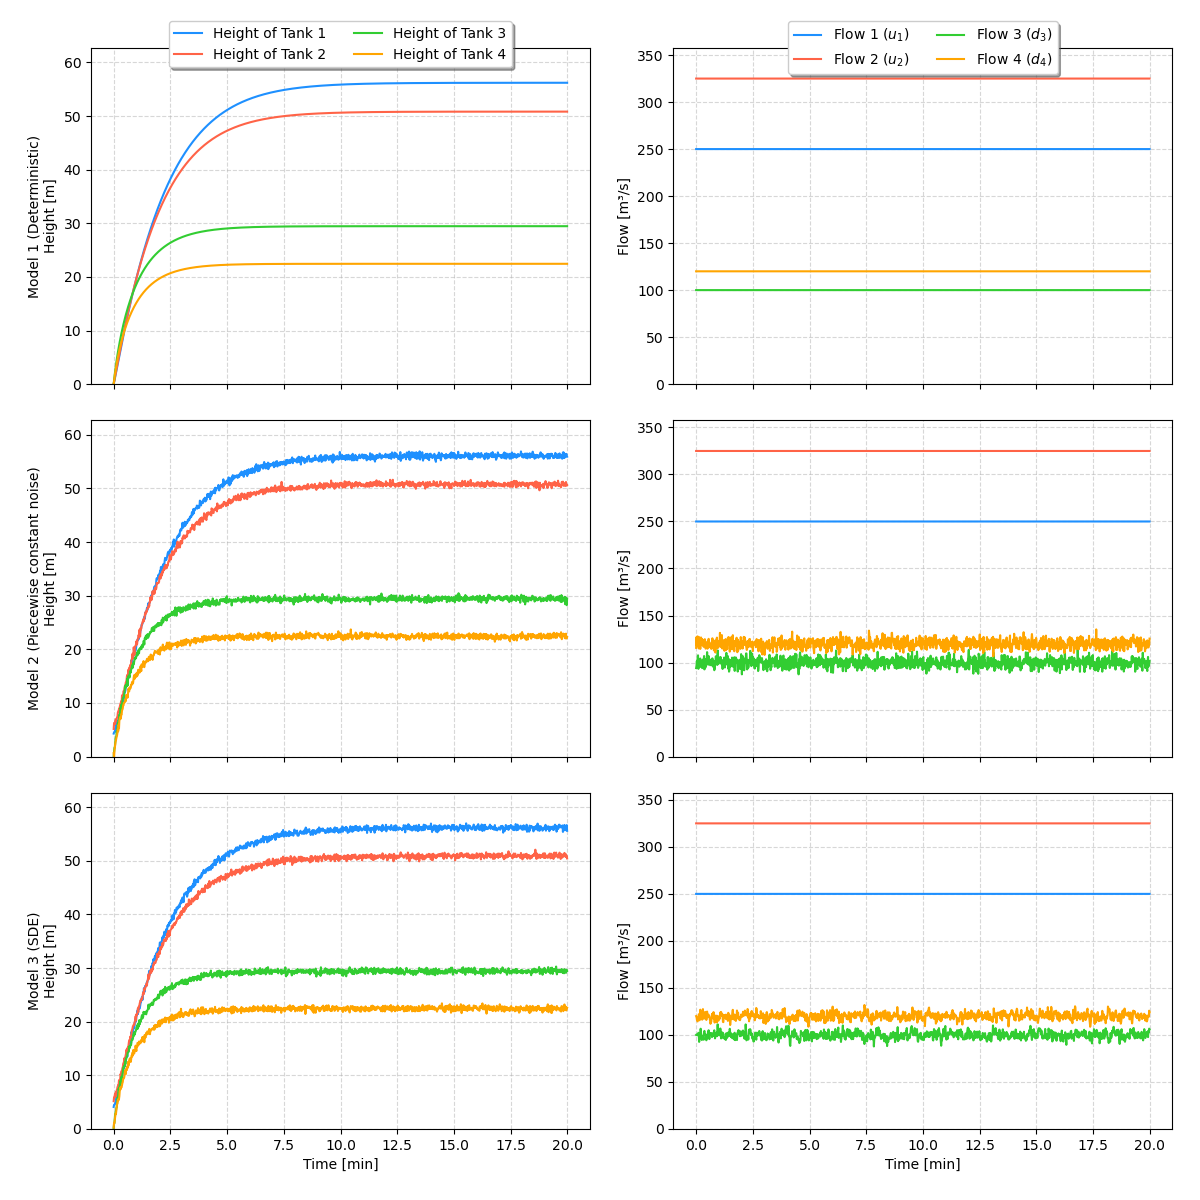
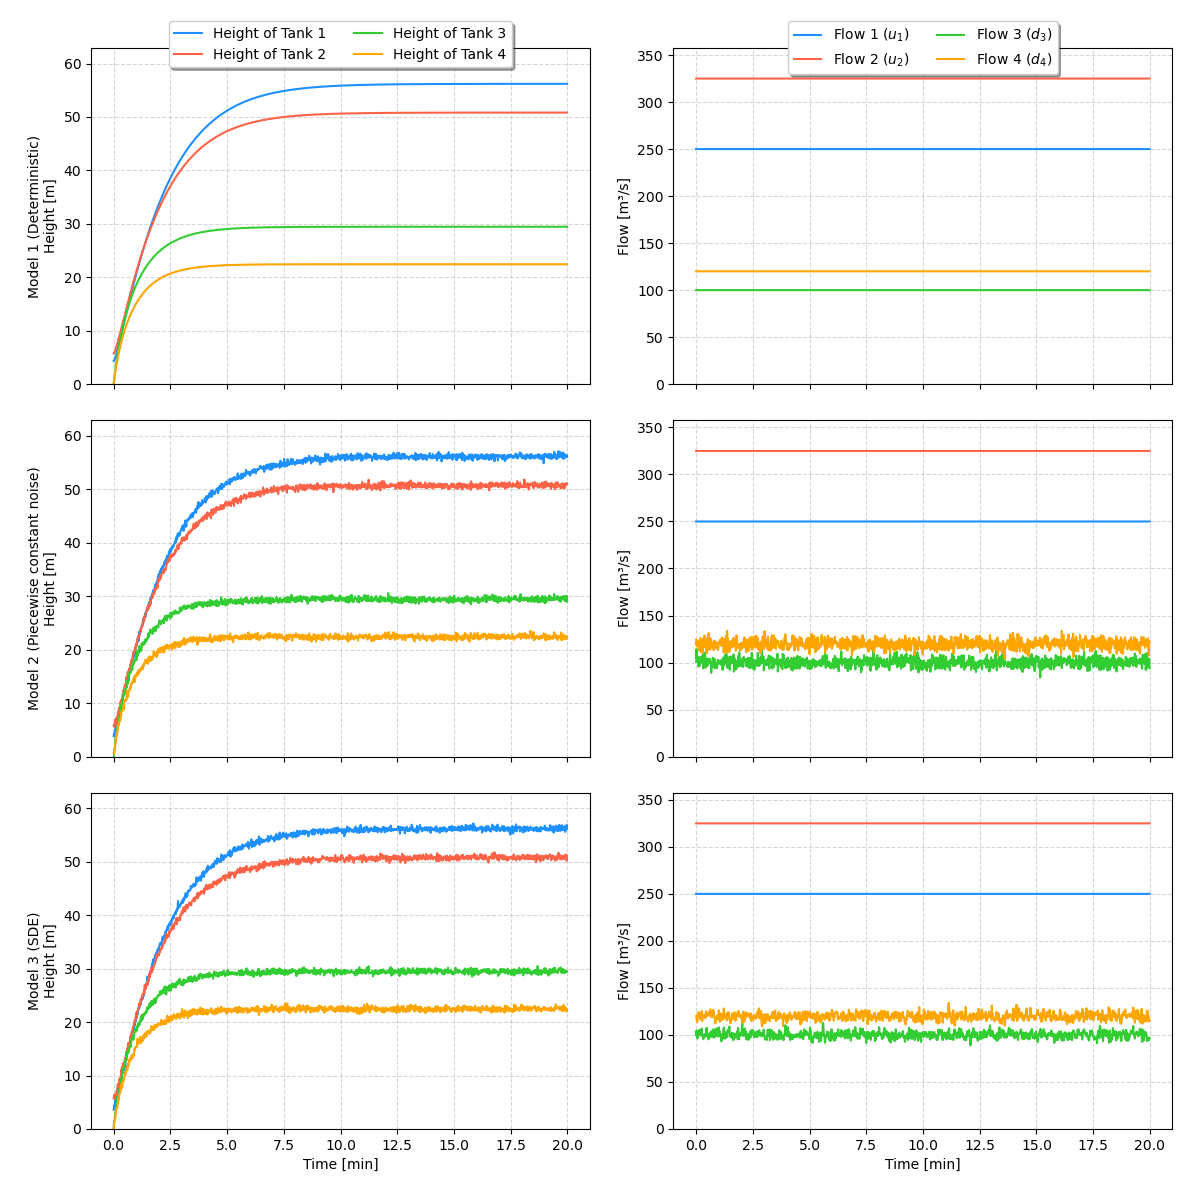
PID

diff --git a/Problem_3.py b/Problem_3.py
@@ -37,12 +37,12 @@ xs = Model.GetSteadyState(x0, u, d)
 print("Steady state (m):", xs)
 print("Steady state (h):", xs/(rho*np.array([A1,A2,A3,A4])))
 
-state_0 = np.concatenate([x0, d])
+state_0 = np.concatenate([xs, d])
 
 
 setpoint = goal
 
-controller_p = pid.PIDController(1, 0, 0, setpoint, delta_t, umin, umax)
+controller_p = pid.PIDController(5, 0, 0, setpoint, delta_t, umin, umax)
 
 t, x, u, d, h = Model.ClosedLoop((t0, tf), state_0, controller_p)
 
@@ -59,13 +59,13 @@ for i in range(4):
 
 axes[0, 0].set_ylim(0, np.max(h)*1.1)
 axes[0, 1].set_ylim(0, np.max(u)*1.1)
-axes[0, 0].set_ylabel('K_p = 1\nHeight [m]')
+axes[0, 0].set_ylabel('K_p = 5\nHeight [m]')
 axes[0, 1].set_ylabel('Flow [m³/s]')
 axes[0, 0].grid(True, linestyle='--', alpha=0.5)
 axes[0, 1].grid(True, linestyle='--', alpha=0.5)
 
 
-controller_pi = pid.PIDController(5, 0, 0, setpoint, delta_t, umin, umax)
+controller_pi = pid.PIDController(50, 0, 0, setpoint, delta_t, umin, umax)
 
 t, x, u, d, h = Model.ClosedLoop((t0, tf), state_0, controller_pi)
 
@@ -78,12 +78,12 @@ for i in range(4):
 
 axes[1, 0].set_ylim(0, np.max(h)*1.1)
 axes[1, 1].set_ylim(0, np.max(u)*1.1)
-axes[1, 0].set_ylabel('PI Controller\nHeight [m]')
+axes[1, 0].set_ylabel('K_p = 50\nHeight [m]')
 axes[1, 1].set_ylabel('Flow [m³/s]')
 axes[1, 0].grid(True, linestyle='--', alpha=0.5)
 axes[1, 1].grid(True, linestyle='--', alpha=0.5)
 
-controller_pid = pid.PIDController(5, 0, 0, setpoint, delta_t, umin, umax)
+controller_pid = pid.PIDController(500, 0, 0, setpoint, delta_t, umin, umax)
 
 t, x, u, d, h = Model.ClosedLoop((t0, tf), state_0, controller_pid)
 
@@ -96,7 +96,7 @@ for i in range(4):
 
 axes[2, 0].set_ylim(0, np.max(h)*1.1)
 axes[2, 1].set_ylim(0, np.max(u)*1.1)
-axes[2, 0].set_ylabel('PID Controller\nHeight [m]')
+axes[2, 0].set_ylabel('K_p = 500\nHeight [m]')
 axes[2, 1].set_ylabel('Flow [m³/s]')
 axes[2, 0].set_xlabel('Time [m]')
 axes[2, 1].set_xlabel('Time [m]')
@@ -109,5 +109,78 @@ axes[0, 1].legend(loc='upper center', bbox_to_anchor=(0.5, 1.10),
         ncol=2, fancybox=True, shadow=True)
 
 plt.tight_layout()
-plt.savefig('figures/Problem_3.png')
+plt.savefig('figures/Problem_3_Kp.png')
 plt.show()
+
+Kp = 50
+
+controller_p = pid.PIDController(Kp, 0.05, 0, setpoint, delta_t, umin, umax)
+
+t, x, u, d, h = Model.ClosedLoop((t0, tf), state_0, controller_p)
+
+colors = ['dodgerblue', 'tomato', 'limegreen', 'orange']
+ls = ['-', '-', '-']
+
+fig, axes = plt.subplots(3, 2, figsize=(12, 12), sharex=True)
+for i in range(4):
+    axes[0, 0].plot(t/60, h[i, :], label=f'Height of Tank {i+1}', color=colors[i], ls=ls[0])
+    if i < 2:
+        axes[0, 1].plot(t/60, u[i, :], label=f'Flow of Tank {i+1}', color=colors[i], ls=ls[0])
+    else:
+        axes[0, 1].plot(t/60, d[i-2, :], label=f'Flow of Tank {i+1}', color=colors[i], ls=ls[0])
+
+axes[0, 0].set_ylim(0, np.max(h)*1.1)
+axes[0, 1].set_ylim(0, np.max(u)*1.1)
+axes[0, 0].set_ylabel('K_p = 5\nHeight [m]')
+axes[0, 1].set_ylabel('Flow [m³/s]')
+axes[0, 0].grid(True, linestyle='--', alpha=0.5)
+axes[0, 1].grid(True, linestyle='--', alpha=0.5)
+
+
+controller_pi = pid.PIDController(Kp, 1, 0, setpoint, delta_t, umin, umax)
+
+t, x, u, d, h = Model.ClosedLoop((t0, tf), state_0, controller_pi)
+
+for i in range(4):
+    axes[1, 0].plot(t/60, h[i, :], label=f'Height of Tank {i+1}', color=colors[i], ls=ls[1])
+    if i < 2:
+        axes[1, 1].plot(t/60, u[i, :], label=f'Flow of Tank {i+1}', color=colors[i], ls=ls[1])
+    else:
+        axes[1, 1].plot(t/60, d[i-2, :], label=f'Flow of Tank {i+1}', color=colors[i], ls=ls[1])
+
+axes[1, 0].set_ylim(0, np.max(h)*1.1)
+axes[1, 1].set_ylim(0, np.max(u)*1.1)
+axes[1, 0].set_ylabel('K_p = 50\nHeight [m]')
+axes[1, 1].set_ylabel('Flow [m³/s]')
+axes[1, 0].grid(True, linestyle='--', alpha=0.5)
+axes[1, 1].grid(True, linestyle='--', alpha=0.5)
+
+controller_pid = pid.PIDController(Kp, 50, 0, setpoint, delta_t, umin, umax)
+
+t, x, u, d, h = Model.ClosedLoop((t0, tf), state_0, controller_pid)
+
+for i in range(4):
+    axes[2, 0].plot(t/60, h[i, :], label=f'Height of Tank {i+1}', color=colors[i], ls=ls[2])
+    if i < 2:
+        axes[2, 1].plot(t/60, u[i, :], label=f'Flow of Tank {i+1}', color=colors[i], ls=ls[2])
+    else:
+        axes[2, 1].plot(t/60, d[i-2, :], label=f'Flow of Tank {i+1}', color=colors[i], ls=ls[2])
+
+axes[2, 0].set_ylim(0, np.max(h)*1.1)
+axes[2, 1].set_ylim(0, np.max(u)*1.1)
+axes[2, 0].set_ylabel('K_p = 500\nHeight [m]')
+axes[2, 1].set_ylabel('Flow [m³/s]')
+axes[2, 0].set_xlabel('Time [m]')
+axes[2, 1].set_xlabel('Time [m]')
+axes[2, 0].grid(True, linestyle='--', alpha=0.5)
+axes[2, 1].grid(True, linestyle='--', alpha=0.5)
+
+axes[0, 0].legend(loc='upper center', bbox_to_anchor=(0.5, 1.10),
+        ncol=2, fancybox=True, shadow=True)
+axes[0, 1].legend(loc='upper center', bbox_to_anchor=(0.5, 1.10),
+        ncol=2, fancybox=True, shadow=True)
+
+plt.tight_layout()
+plt.savefig('figures/Problem_3_Ki.png')
+plt.show()
+

diff --git a/Problem_2.py b/Problem_2.py
@@ -31,11 +31,11 @@ d_array[0, :] = F3
 d_array[1, :] = F4
 
 colors = ['dodgerblue', 'tomato', 'limegreen', 'orange']
-ls = ['-', '-', '-'] 
+ls = ['-', '-', '-']
 
 xs = Model_Deterministic.GetSteadyState(x0, u, d)
 
-t, x, u_out, d_out, h = Model_Deterministic.OpenLoop((t0, tf), x0, u_array, d_array)
+t, x, u_out, d_out, h = Model_Deterministic.OpenLoop((t0, tf), xs, u_array, d_array)
 
 fig, axes = plt.subplots(3, 2, figsize=(12, 12), sharex=True)
 
